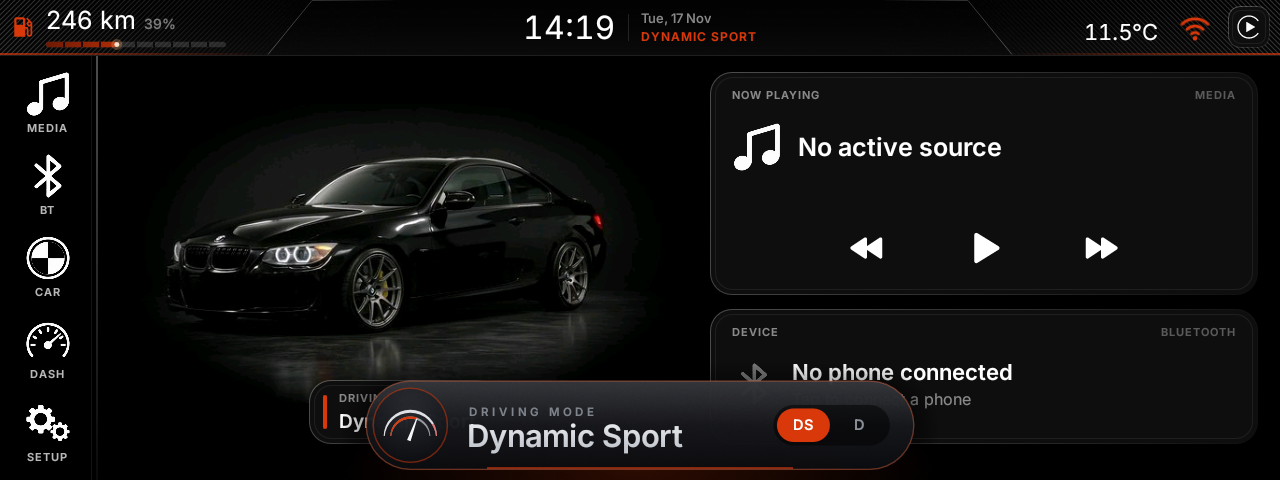
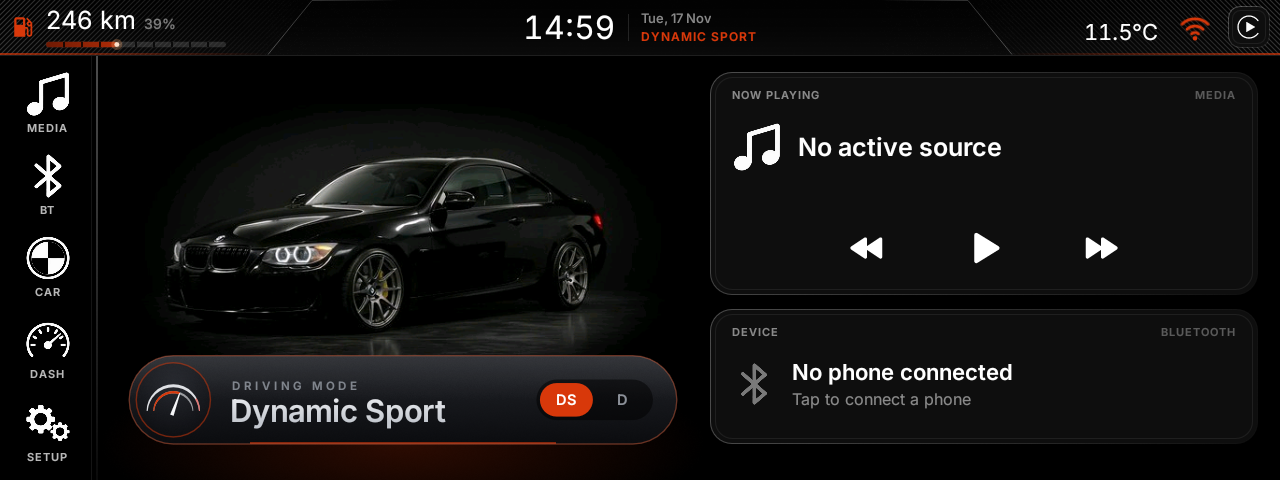
Mode card on Home sits over the gear display under the car and covers it (opaque); elsewhere it stays bottom-center. Gear display gets two oblique bars before the letter, gray in Comfort, orange in Sport

Changed region(s): [[0.0938, 0.7188, 0.7188, 1.0], [0.375, 0.9688, 0.6875, 1.0], [0.4375, 0.0312, 0.4688, 0.0938]]

diff --git a/app/src/main/java/ro/e92/launcher/ui/screens/ModeScreen.kt b/app/src/main/java/ro/e92/launcher/ui/screens/ModeScreen.kt
@@ -31,7 +31,15 @@ import ro.e92.launcher.ui.ScreenHost
  * Confirmarea de mod, peste ecranul curent: sisteme oprite sau normale, Drive Sport sau Drive.
  * Stă [ModeBannerView.TOTAL_MS] și dispare singură; orice tastă o închide și ajunge mai departe.
  */
-class ModeScreen(host: ScreenHost, private val scene: ModeScene) : Screen(host) {
+class ModeScreen(
+    host: ScreenHost,
+    private val scene: ModeScene,
+    /**
+     * Pe Home: zona de sub mașină (în coordonatele ferestrei) peste care stă cardul, acoperind
+     * afișajul permanent al modului cât rulează animația. Null = jos pe mijloc (Dashboard etc.).
+     */
+    private val anchor: android.graphics.RectF? = null
+) : Screen(host) {
 
     override val title: String get() = context.getString(titleRes(scene))
     override val isOverlay: Boolean get() = true
@@ -41,7 +49,7 @@ class ModeScreen(host: ScreenHost, private val scene: ModeScene) : Screen(host) 
     override fun onCreateView(inflater: LayoutInflater, container: ViewGroup): View {
         // Drive Sport / Drive: doar un card jos pe mijloc, peste ecranul curent, care rămâne vizibil.
         if (scene == ModeScene.SPORT || scene == ModeScene.DRIVE) {
-            return ModeCardView(context, scene == ModeScene.SPORT, context.getString(titleRes(scene))) { dismiss() }
+            return ModeCardView(context, scene == ModeScene.SPORT, context.getString(titleRes(scene)), anchor) { dismiss() }
                 .apply {
                     layoutParams = ViewGroup.LayoutParams(
                         ViewGroup.LayoutParams.MATCH_PARENT, ViewGroup.LayoutParams.MATCH_PARENT
@@ -379,8 +387,12 @@ class ModeCardView(
     context: Context,
     private val sport: Boolean,
     private val title: String,
+    /** Zona din fereastră peste care stă cardul; null = jos pe mijlocul ecranului. */
+    private val anchor: RectF?,
     private val onDone: () -> Unit
 ) : View(context) {
+
+    private val myLocation = IntArray(2)
 
     private val orange = ContextCompat.getColor(context, R.color.glow_core)
     /** DS: portocaliul interfeței. D: gri-oțel rece. */
@@ -457,10 +469,22 @@ class ModeCardView(
         val a255 = (255 * alpha).toInt()
 
         // ---- așezare: jos pe mijloc; urcă cu un mic recul la intrare, coboară la ieșire ----
-        val cw = CARD_W * u
         val ch = CARD_H * u
-        val cx = w / 2f
-        val cy = h - BOTTOM_GAP * u - ch / 2f + (1f - enter) * 30f * u + exit * 16f * u
+        val cw: Float
+        val cx: Float
+        val bottom: Float
+        if (anchor != null) {
+            // Pe Home: centrat pe zona de sub mașină, cu fundul pe fundul afișajului permanent.
+            getLocationInWindow(myLocation)
+            cw = minOf(CARD_W * u, anchor.width())
+            cx = anchor.centerX() - myLocation[0]
+            bottom = anchor.bottom - myLocation[1]
+        } else {
+            cw = CARD_W * u
+            cx = w / 2f
+            bottom = h - BOTTOM_GAP * u
+        }
+        val cy = bottom - ch / 2f + (1f - enter) * 30f * u + exit * 16f * u
         val scale = 0.9f + 0.1f * pop
         canvas.save()
         canvas.scale(scale, scale, cx, cy)
@@ -492,7 +516,9 @@ class ModeCardView(
         // ---- sticla ----
         cardPaint.shader = LinearGradient(
             0f, card.top, 0f, card.bottom,
-            Color.argb((246 * alpha).toInt(), 34, 36, 41), Color.argb((246 * alpha).toInt(), 11, 12, 15),
+            // Pe Home cardul acoperă de tot afișajul permanent de dedesubt.
+            Color.argb(((if (anchor != null) 255 else 246) * alpha).toInt(), 34, 36, 41),
+            Color.argb(((if (anchor != null) 255 else 246) * alpha).toInt(), 11, 12, 15),
             Shader.TileMode.CLAMP
         )
         canvas.drawRoundRect(card, rad, rad, cardPaint)

diff --git a/app/src/main/java/ro/e92/launcher/ui/widget/DriveModeStripView.kt b/app/src/main/java/ro/e92/launcher/ui/widget/DriveModeStripView.kt
@@ -85,13 +85,17 @@ class DriveModeStripView @JvmOverloads constructor(
         val old = previous
         if (old != null && t < 160f) {
             letterPaint.color = withAlpha(if (old) orange else Color.rgb(230, 232, 236), 1f - t / 160f)
-            canvas.drawText(if (old) "DS" else "D", 0f, letterBase, letterPaint)
+            canvas.drawText(if (old) "DS" else "D", LETTER_X * density, letterBase, letterPaint)
         }
         val inT = ease(t, 90f, 320f)
+        val slide = (1f - inT) * 11f * density
+
+        // ---- cele două bare oblice din față: gri la Comfort, portocalii la Sport ----
+        drawSlashes(canvas, letterBase, if (now) orange else steel, inT, slide)
+
         letterPaint.color = withAlpha(if (now) orange else Color.rgb(230, 232, 236), inT)
         val letter = if (now) "DS" else "D"
-        val slide = (1f - inT) * 11f * density
-        canvas.drawText(letter, slide, letterBase, letterPaint)
+        canvas.drawText(letter, LETTER_X * density + slide, letterBase, letterPaint)
 
         // ---- dreapta: DRIVING MODE mic, dedesubt numele modului ----
         val name = context.getString(if (now) R.string.mode_strip_sport else R.string.mode_strip_drive)
@@ -102,7 +106,7 @@ class DriveModeStripView @JvmOverloads constructor(
         canvas.drawText(name, w, nameBase, namePaint)
 
         // ---- linia fină dintre literă și text ----
-        val letterEnd = letterPaint.measureText(if (now) "DS" else "D") + 14f * density
+        val letterEnd = LETTER_X * density + letterPaint.measureText(if (now) "DS" else "D") + 14f * density
         val textStart = w - namePaint.measureText(name) - 16f * density
         if (textStart > letterEnd) {
             val midY = nameBase - namePaint.textSize * 0.36f
@@ -116,6 +120,32 @@ class DriveModeStripView @JvmOverloads constructor(
 
         if (t < ANIM_MS) postInvalidateOnAnimation()
     }
+
+    /** Două paralelograme înclinate, ca „//", înălțimea literei; al doilea mai stins. */
+    private fun drawSlashes(canvas: Canvas, base: Float, color: Int, a: Float, slide: Float) {
+        val top = base - 29f * density
+        val skew = 9f * density
+        val bar = 5f * density
+        for (i in 0..1) {
+            val x = slide + i * (bar + 4f * density)
+            slashPath.reset()
+            slashPath.moveTo(x + skew, top)
+            slashPath.lineTo(x + skew + bar, top)
+            slashPath.lineTo(x + bar, base)
+            slashPath.lineTo(x, base)
+            slashPath.close()
+            slashPaint.shader = LinearGradient(
+                0f, top, 0f, base,
+                withAlpha(color, a * (if (i == 0) 0.55f else 1f)),
+                withAlpha(color, a * (if (i == 0) 0.25f else 0.7f)),
+                Shader.TileMode.CLAMP
+            )
+            canvas.drawPath(slashPath, slashPaint)
+        }
+    }
+
+    private val slashPaint = Paint(Paint.ANTI_ALIAS_FLAG)
+    private val slashPath = android.graphics.Path()
 
     /** O linie care se stinge spre capete, cu un halou din câteva linii mai groase și mai slabe. */
     private fun drawFloorLine(canvas: Canvas, w: Float, y: Float, color: Int, strength: Float, reveal: Float) {
@@ -143,6 +173,8 @@ class DriveModeStripView @JvmOverloads constructor(
 
     private companion object {
         const val ANIM_MS = 700f
+        /** De unde începe litera, după cele două bare oblice (dp). */
+        const val LETTER_X = 30f
         /** Grosimea în dp și opacitatea fiecărui strat al liniei de jos: miezul, apoi haloul. */
         val GLOW = listOf(8f to 0.06f, 4.5f to 0.12f, 1.4f to 0.95f)
     }

diff --git a/app/src/main/java/ro/e92/launcher/ui/screens/HomeWidgetsScreen.kt b/app/src/main/java/ro/e92/launcher/ui/screens/HomeWidgetsScreen.kt
@@ -197,6 +197,24 @@ class HomeWidgetsScreen(host: ScreenHost) : Screen(host) {
 
     private var modeShown = false
 
+    /**
+     * Zona peste care apare cardul de mod pe Home, în coordonatele ferestrei: lățimea zonei cu
+     * mașina, fundul afișajului permanent al modului. Null dacă ecranul nu e încă așezat.
+     */
+    fun modeAnchor(): android.graphics.RectF? {
+        val car = binding.carSpin
+        val strip = binding.modeStrip
+        if (car.width == 0) return null
+        val loc = IntArray(2)
+        car.getLocationInWindow(loc)
+        val left = loc[0].toFloat()
+        val right = left + car.width
+        val rootLoc = IntArray(2)
+        binding.root.getLocationInWindow(rootLoc)
+        val bottom = rootLoc[1] + binding.root.height - (strip.layoutParams as ViewGroup.MarginLayoutParams).bottomMargin
+        return android.graphics.RectF(left, (bottom - strip.layoutParams.height).toFloat(), right, bottom.toFloat())
+    }
+
     private fun renderMedia() {
         val media = Services.media.snapshot.value
         val bt = Services.kswBt.state.value

diff --git a/app/src/main/java/ro/e92/launcher/ui/HomeActivity.kt b/app/src/main/java/ro/e92/launcher/ui/HomeActivity.kt
@@ -1124,7 +1124,8 @@ class HomeActivity : ComponentActivity(), ScreenHost {
                 Services.reverse.modeEvents.collect { scene ->
                     if (Services.vehicle.state.value.reverseGear == true) return@collect
                     if (stack.current is ro.e92.launcher.ui.screens.ModeScreen) stack.pop()
-                    stack.push(ro.e92.launcher.ui.screens.ModeScreen(this@HomeActivity, scene))
+                    val anchor = (stack.current as? ro.e92.launcher.ui.screens.HomeWidgetsScreen)?.modeAnchor()
+                    stack.push(ro.e92.launcher.ui.screens.ModeScreen(this@HomeActivity, scene, anchor))
                 }
             }
         }
